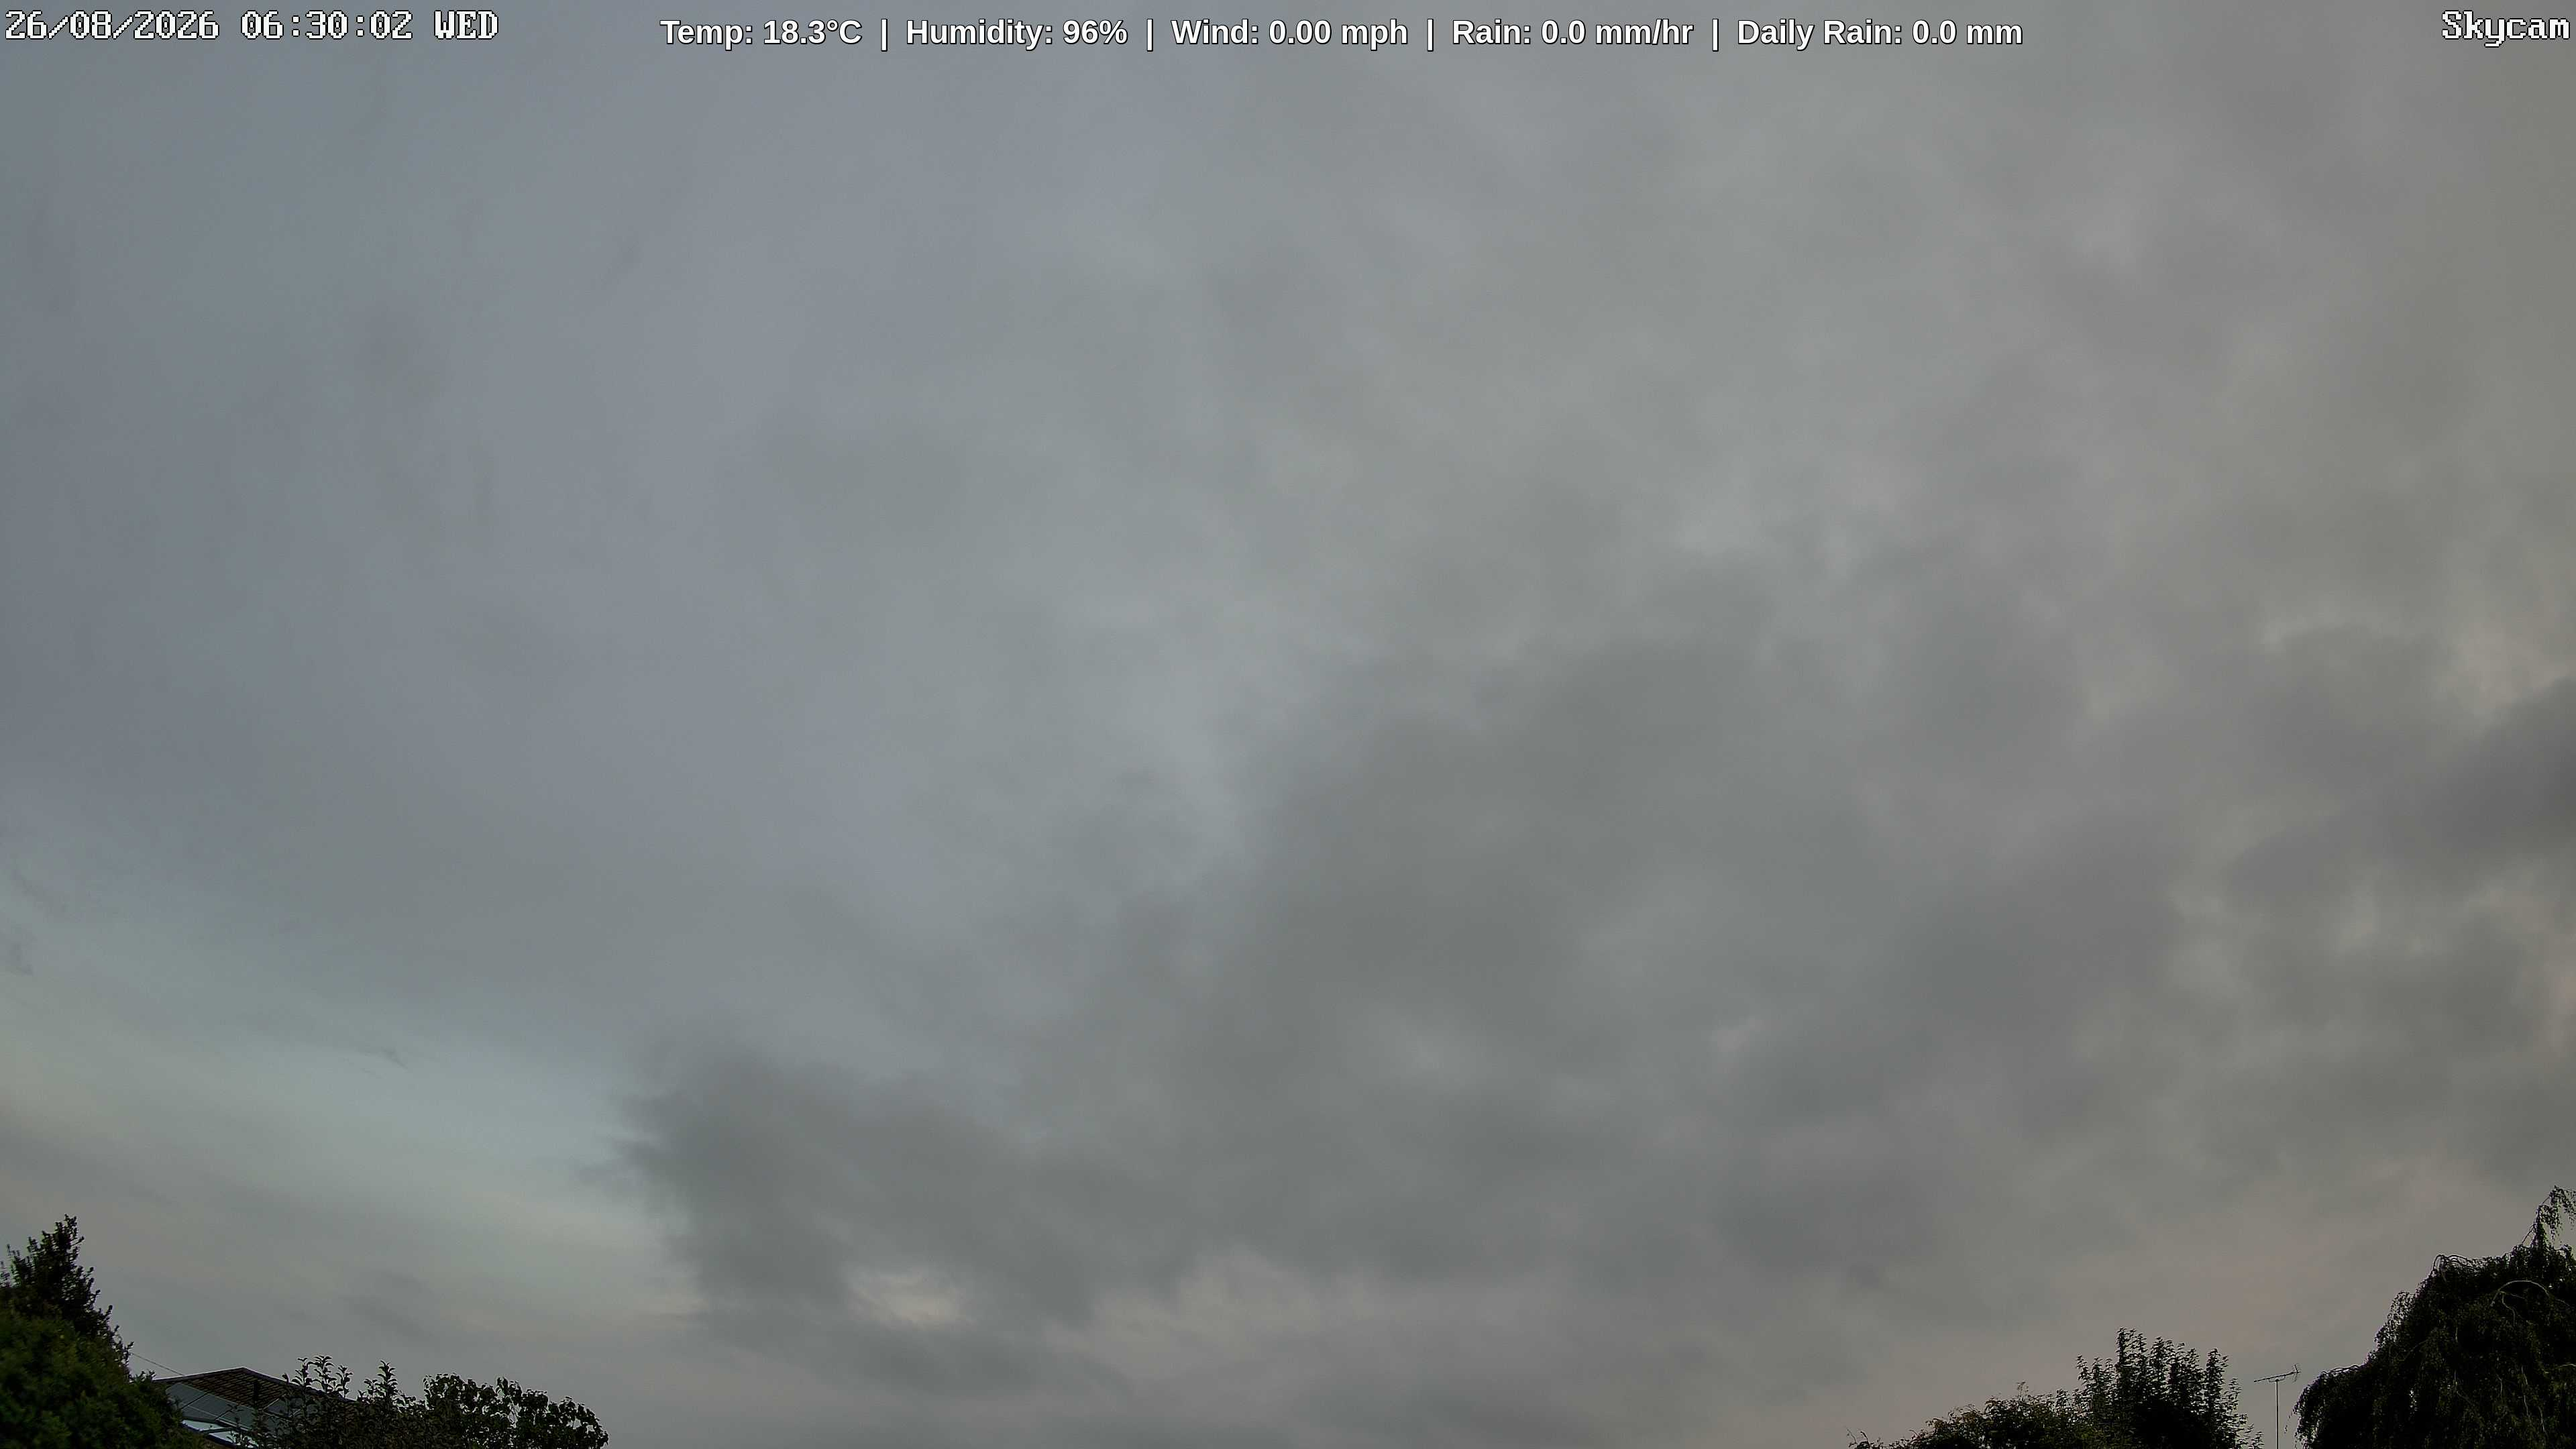
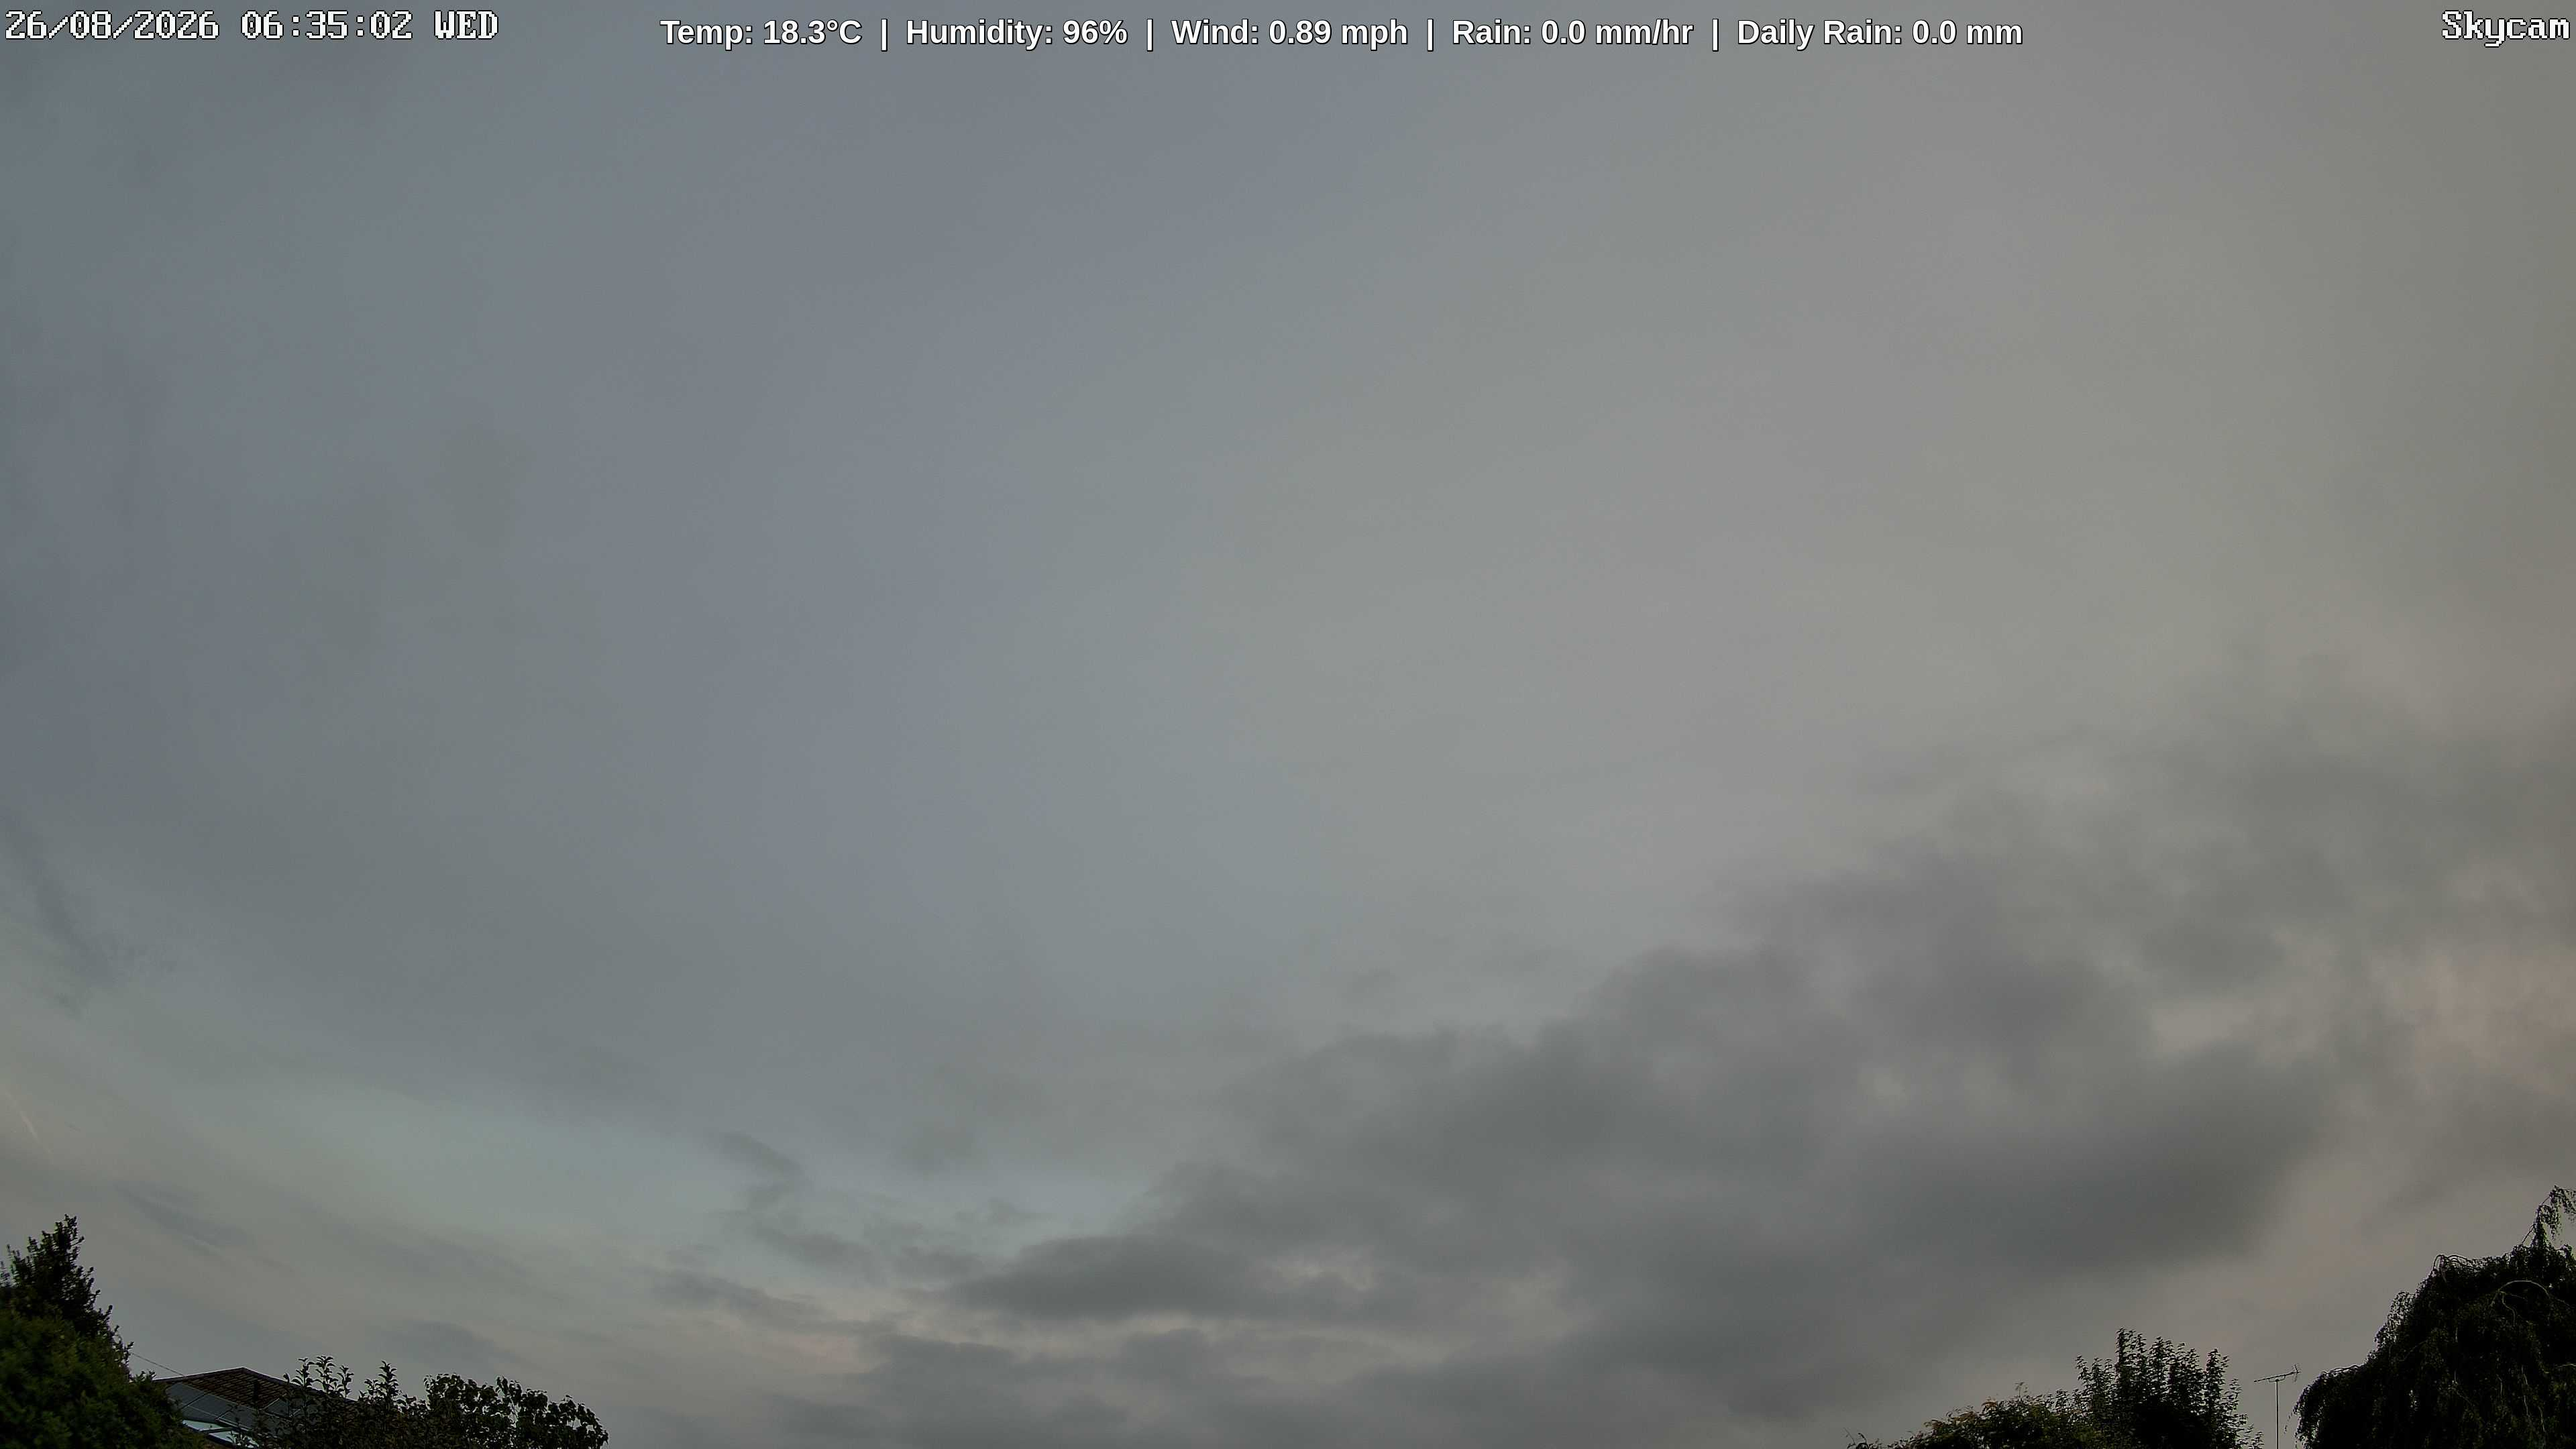
Update weather cam image with synchronized dual-layer weather metrics

diff --git a/index.html b/index.html
@@ -32,7 +32,7 @@
 </head>
 <body>
     <img id="weathercam" alt="Live Weather Snapshot">
-    <div class="banner">Temp: 18.3°C  |  Humidity: 96%  |  Wind: 0.00 mph  |  Rain: 0.0 mm/hr  |  Daily Rain: 0.0 mm</div>
+    <div class="banner">Temp: 18.3°C  |  Humidity: 96%  |  Wind: 0.89 mph  |  Rain: 0.0 mm/hr  |  Daily Rain: 0.0 mm</div>
 
     <script>
         // Shatter mobile cache engines by appending a live unique runtime timestamp 
